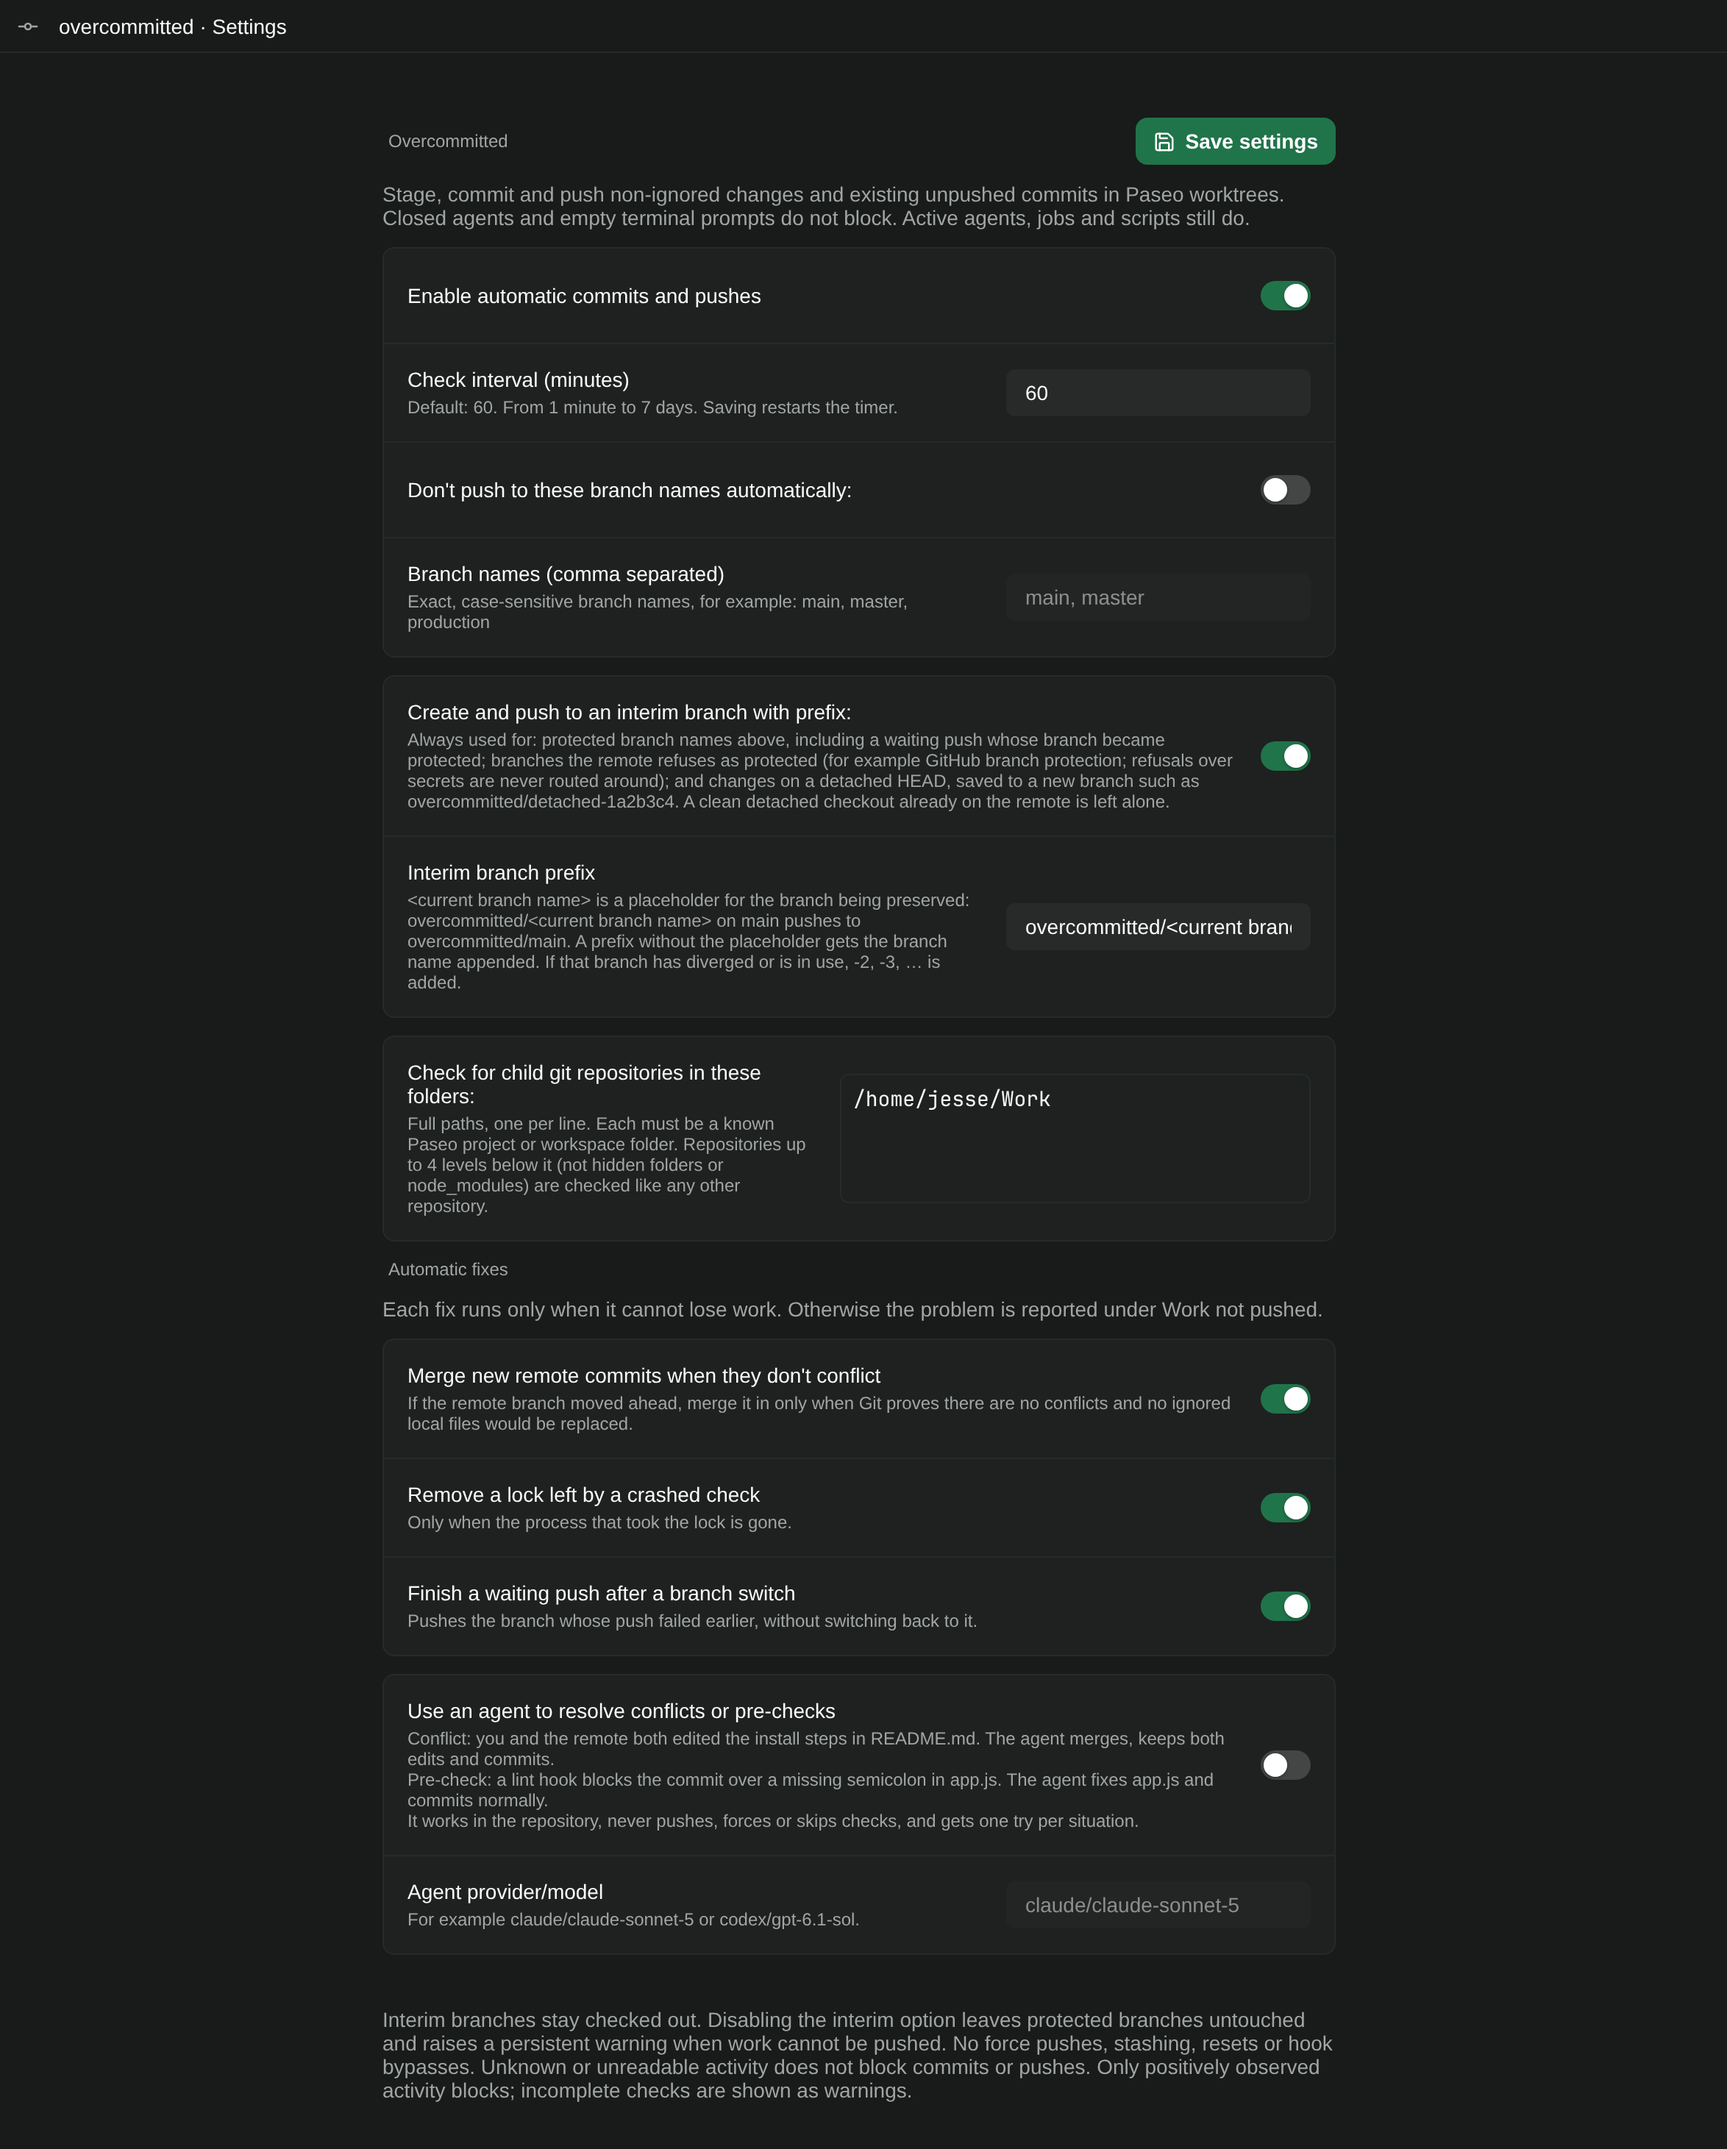
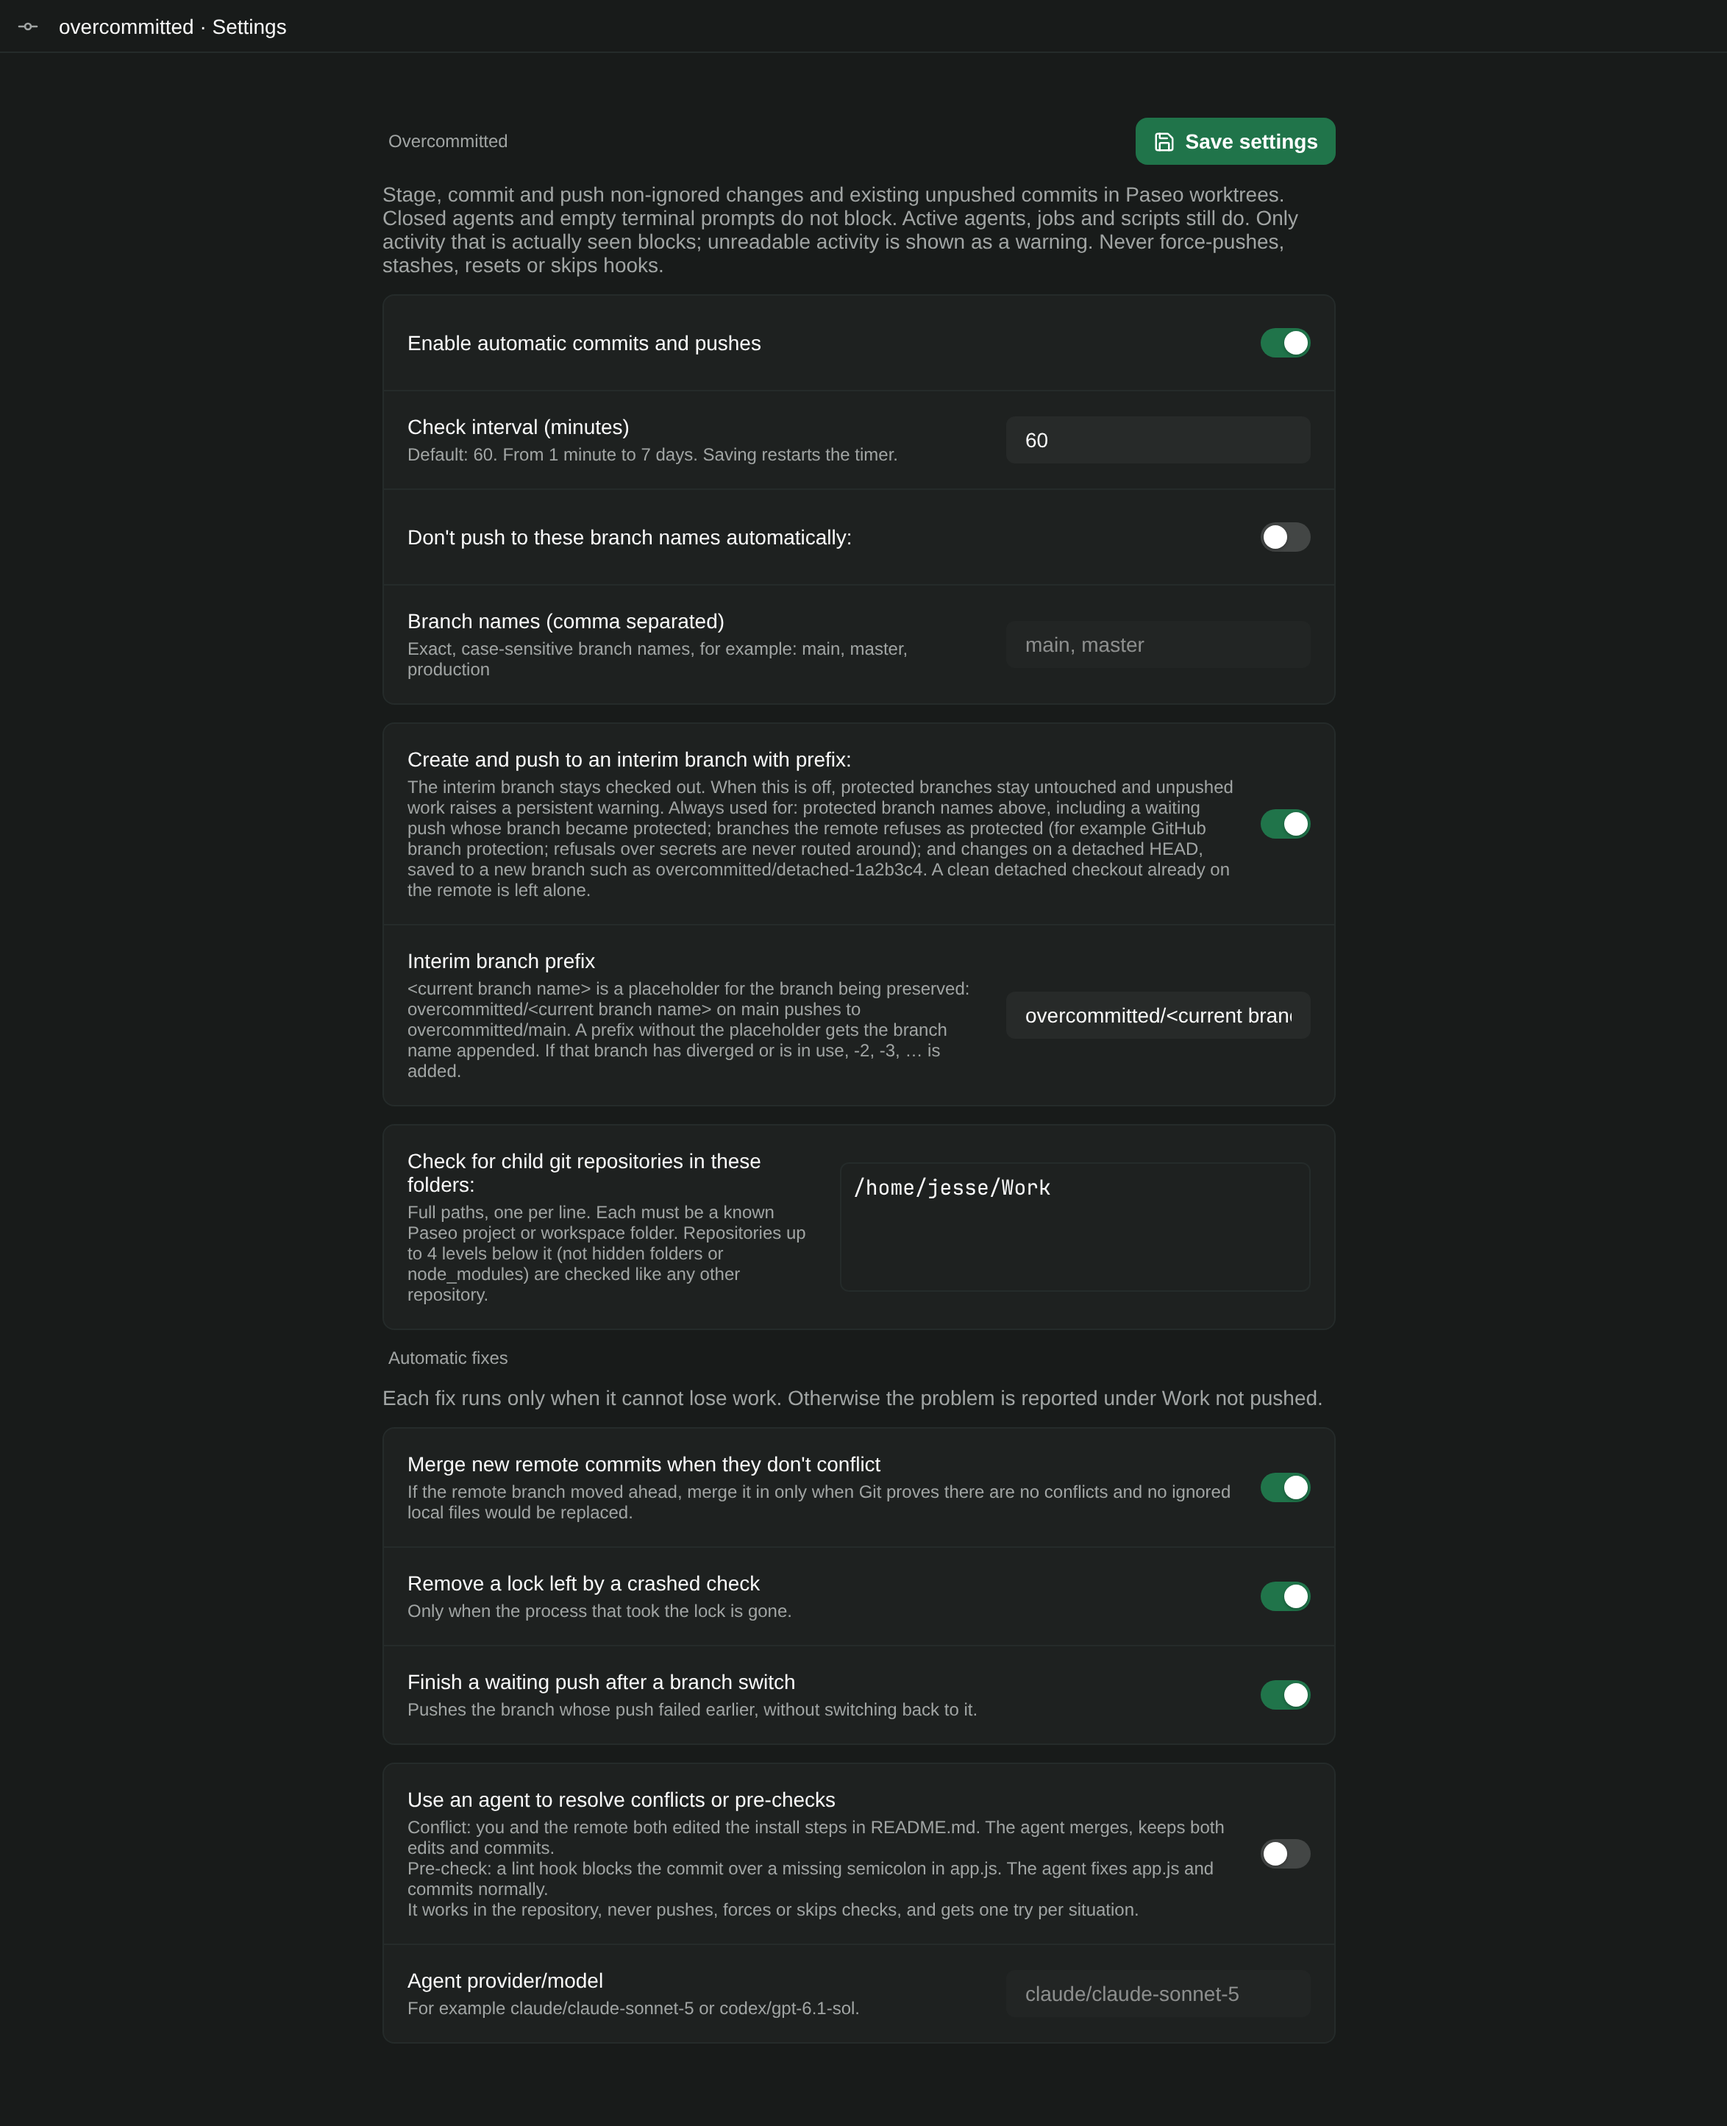
Move the footer notes next to the settings they describe; refresh screenshot

diff --git a/client/settings.tsx b/client/settings.tsx
@@ -41,7 +41,7 @@ export function Settings({ theme, layout }: PluginSurfaceProps) {
       <Icon name="Save" size={15} color={theme.colors.accentForeground} />
       <Text style={{ color: theme.colors.accentForeground, fontWeight: "700" }}>{settings.saving ? "Saving…" : saved ? "Saved" : "Save settings"}</Text>
     </Pressable>}>
-      <Text style={muted}>Stage, commit and push non-ignored changes and existing unpushed commits in Paseo worktrees. Closed agents and empty terminal prompts do not block. Active agents, jobs and scripts still do.</Text>
+      <Text style={muted}>Stage, commit and push non-ignored changes and existing unpushed commits in Paseo worktrees. Closed agents and empty terminal prompts do not block. Active agents, jobs and scripts still do. Only activity that is actually seen blocks; unreadable activity is shown as a warning. Never force-pushes, stashes, resets or skips hooks.</Text>
       {validation || settings.saveError ? <Text accessibilityRole="alert" style={text}>{validation || settings.saveError}</Text> : null}
       <SettingsCard>
         <SettingsSwitch label="Enable automatic commits and pushes" value={values.enabled} onValueChange={enabled => change({ enabled })} />
@@ -50,7 +50,7 @@ export function Settings({ theme, layout }: PluginSurfaceProps) {
         <SettingsInput label="Branch names (comma separated)" initialValue={values.protectedBranches} disabled={!values.protectBranches} onChangeText={protectedBranches => change({ protectedBranches })} hint="Exact, case-sensitive branch names, for example: main, master, production" />
       </SettingsCard>
       <SettingsCard>
-        <SettingsSwitch label="Create and push to an interim branch with prefix:" value={values.useInterimBranch} onValueChange={useInterimBranch => change({ useInterimBranch })} hint="Always used for: protected branch names above, including a waiting push whose branch became protected; branches the remote refuses as protected (for example GitHub branch protection; refusals over secrets are never routed around); and changes on a detached HEAD, saved to a new branch such as overcommitted/detached-1a2b3c4. A clean detached checkout already on the remote is left alone." />
+        <SettingsSwitch label="Create and push to an interim branch with prefix:" value={values.useInterimBranch} onValueChange={useInterimBranch => change({ useInterimBranch })} hint="The interim branch stays checked out. When this is off, protected branches stay untouched and unpushed work raises a persistent warning. Always used for: protected branch names above, including a waiting push whose branch became protected; branches the remote refuses as protected (for example GitHub branch protection; refusals over secrets are never routed around); and changes on a detached HEAD, saved to a new branch such as overcommitted/detached-1a2b3c4. A clean detached checkout already on the remote is left alone." />
         <SettingsInput label="Interim branch prefix" initialValue={values.interimPrefix} disabled={!values.useInterimBranch} onChangeText={interimPrefix => change({ interimPrefix })} hint="<current branch name> is a placeholder for the branch being preserved: overcommitted/<current branch name> on main pushes to overcommitted/main. A prefix without the placeholder gets the branch name appended. If that branch has diverged or is in use, -2, -3, … is added." />
       </SettingsCard>
       <SettingsCard>
@@ -71,7 +71,6 @@ export function Settings({ theme, layout }: PluginSurfaceProps) {
           <SettingsInput label="Agent provider/model" initialValue={values.agentModel} disabled={!values.agentResolve} onChangeText={agentModel => change({ agentModel })} hint="For example claude/claude-sonnet-5 or codex/gpt-6.1-sol." />
         </SettingsCard>
       </SettingsSection>
-      <Text style={muted}>Interim branches stay checked out. Disabling the interim option leaves protected branches untouched and raises a persistent warning when work cannot be pushed. No force pushes, stashing, resets or hook bypasses. Unknown or unreadable activity does not block commits or pushes. Only positively observed activity blocks; incomplete checks are shown as warnings.</Text>
     </SettingsSection>
     <SettingsSection title="Checks">
       <Text style={text}>{status.data?.running ? "Checking…" : status.data?.nextCheck ? `Next check: ${new Date(status.data.nextCheck).toLocaleString()}` : "No check scheduled"}</Text>
